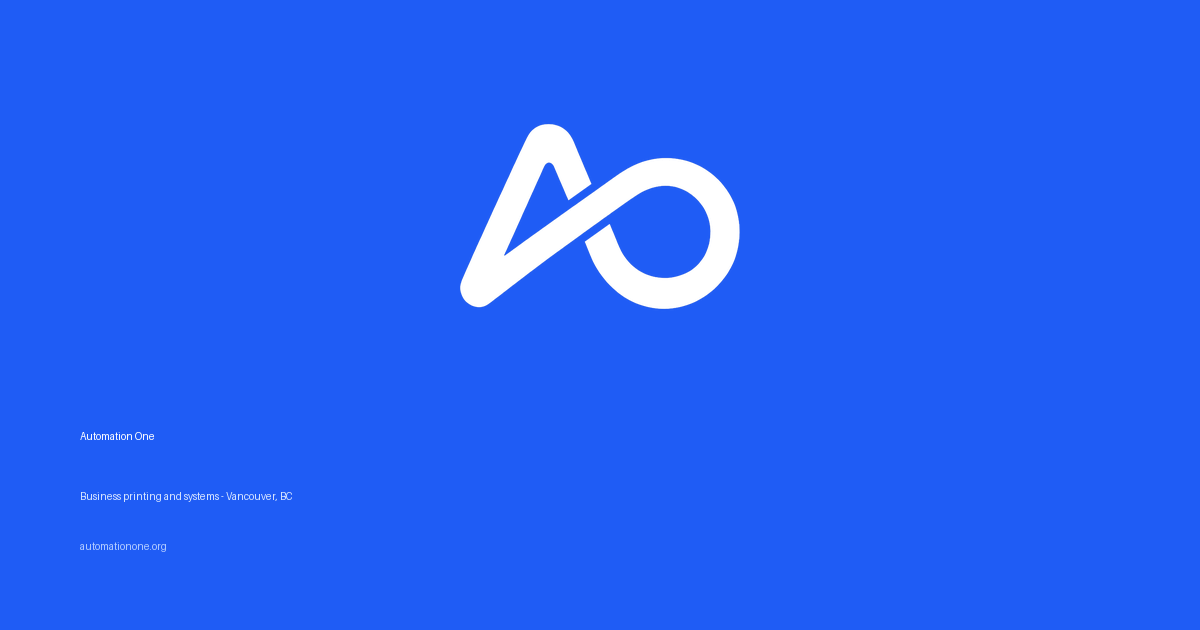
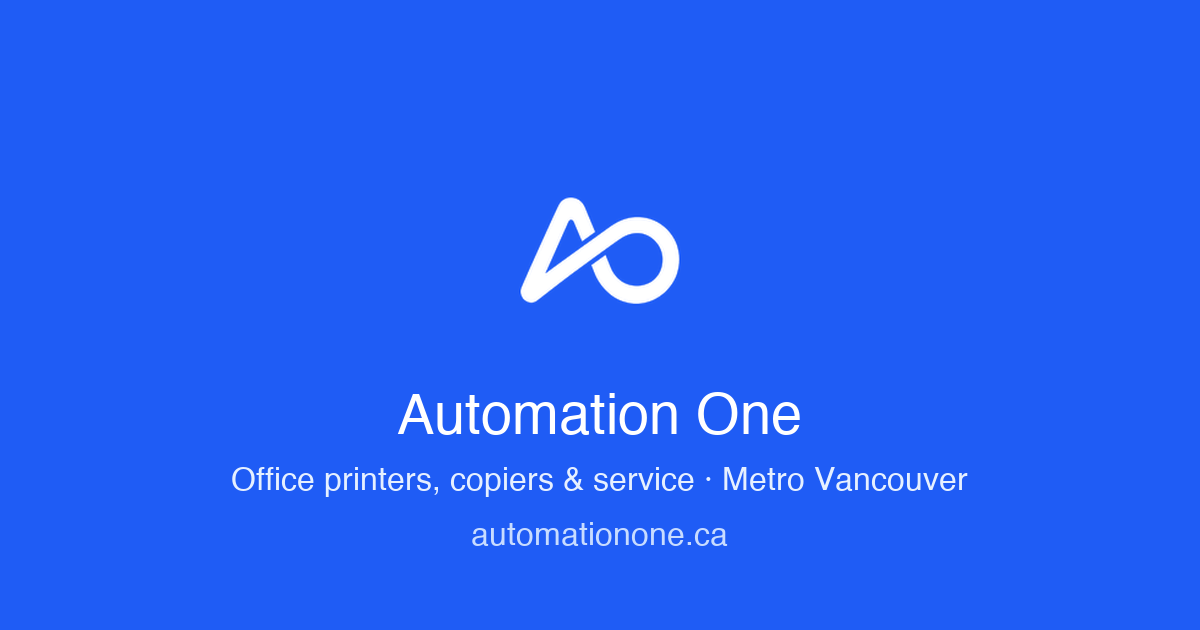
Update homepage title and social preview image for Safari and sharing.

diff --git a/index.html b/index.html
@@ -6,26 +6,30 @@
 <link rel="icon" href="/favicon.ico?v=ao2" sizes="any" />
 <link rel="icon" type="image/png" sizes="32x32" href="/favicon-32x32.png?v=ao2" />
 <link rel="icon" type="image/png" sizes="16x16" href="/favicon-16x16.png?v=ao2" />
-<link rel="apple-touch-icon" href="/apple-touch-icon.png?v=ao2" />
+<link rel="apple-touch-icon" href="/apple-touch-icon.png?v=ao3" sizes="180x180" />
 <link rel="manifest" href="/site.webmanifest" />
 <meta name="theme-color" content="#1f5cf5" />
 <meta name="theme-color" content="#1f5cf5" media="(prefers-color-scheme: light)" />
 <meta name="theme-color" content="#1f5cf5" media="(prefers-color-scheme: dark)" />
 <meta name="apple-mobile-web-app-status-bar-style" content="black-translucent" />
-<title>One partner for all printing needs. | Automation One</title>
+<title>Automation One | Business solutions made simple</title>
+<meta name="apple-mobile-web-app-title" content="Automation One" />
 <meta name="description" content="Automation One is Vancouver's authorized dealer for Canon, Lexmark, Xerox and more - office printers, toner, service and managed print for BC businesses." />
 <!-- ao-seo-start -->
 <link rel="canonical" href="https://automationone.ca/" />
 <meta property="og:type" content="website" />
 <meta property="og:site_name" content="Automation One" />
 <meta property="og:url" content="https://automationone.ca/" />
-<meta property="og:title" content="One partner for all printing needs. | Automation One" />
+<meta property="og:title" content="Automation One | Business solutions made simple" />
 <meta property="og:description" content="Automation One is Vancouver&#39;s authorized dealer for Canon, Lexmark, Xerox and more - office printers, toner, service and managed print for BC businesses." />
-<meta property="og:image" content="https://automationone.ca/og-image.png" />
+<meta property="og:image" content="https://automationone.ca/og-image.png?v=2" />
+<meta property="og:image:width" content="1200" />
+<meta property="og:image:height" content="630" />
+<meta property="og:image:alt" content="Automation One — office printers and copiers in Metro Vancouver" />
 <meta name="twitter:card" content="summary_large_image" />
-<meta name="twitter:title" content="One partner for all printing needs. | Automation One" />
+<meta name="twitter:title" content="Automation One | Business solutions made simple" />
 <meta name="twitter:description" content="Automation One is Vancouver&#39;s authorized dealer for Canon, Lexmark, Xerox and more - office printers, toner, service and managed print for BC businesses." />
-<meta name="twitter:image" content="https://automationone.ca/og-image.png" />
+<meta name="twitter:image" content="https://automationone.ca/og-image.png?v=2" />
 <!-- ao-seo-end -->
 <script type="application/ld+json">{"@context": "https://schema.org", "@type": "LocalBusiness", "name": "Automation One Business Systems Inc.", "alternateName": "Automation One", "url": "https://automationone.ca", "logo": "https://automationone.ca/ao-nav-logo.webp", "image": "https://automationone.ca/og-image.png", "telephone": "+1-604-255-6622", "email": "info@automationone.ca", "address": [{"@type": "PostalAddress", "streetAddress": "1365 Boundary Rd.", "addressLocality": "Vancouver", "addressRegion": "BC", "postalCode": "V5K 4T9", "addressCountry": "CA"}, {"@type": "PostalAddress", "streetAddress": "1440 Ingleton Ave.", "addressLocality": "Burnaby", "addressRegion": "BC", "postalCode": "V5C 4L7", "addressCountry": "CA"}], "areaServed": {"@type": "AdministrativeArea", "name": "British Columbia"}, "description": "Automation One is Vancouver's authorized dealer for Canon, Lexmark, Xerox and more - office printers, toner, service and managed print for BC businesses."}</script>
 <link rel="preconnect" href="https://fonts.googleapis.com">
